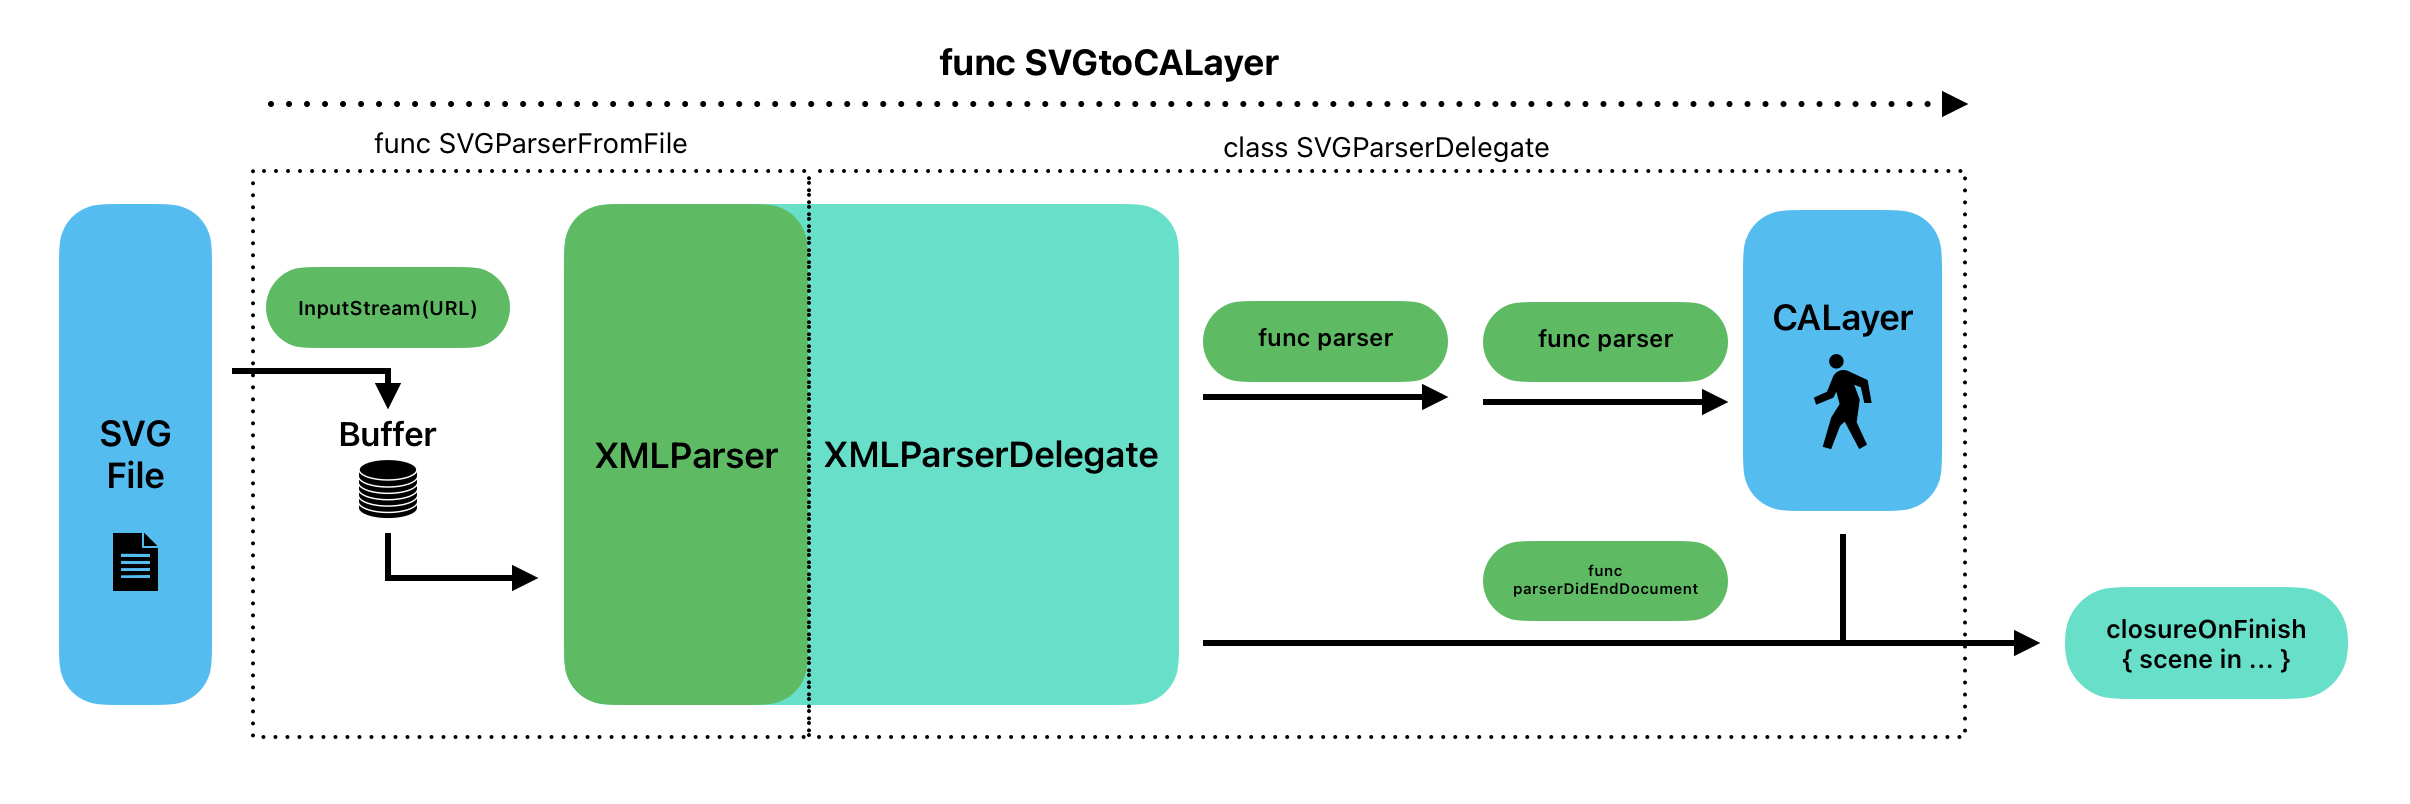
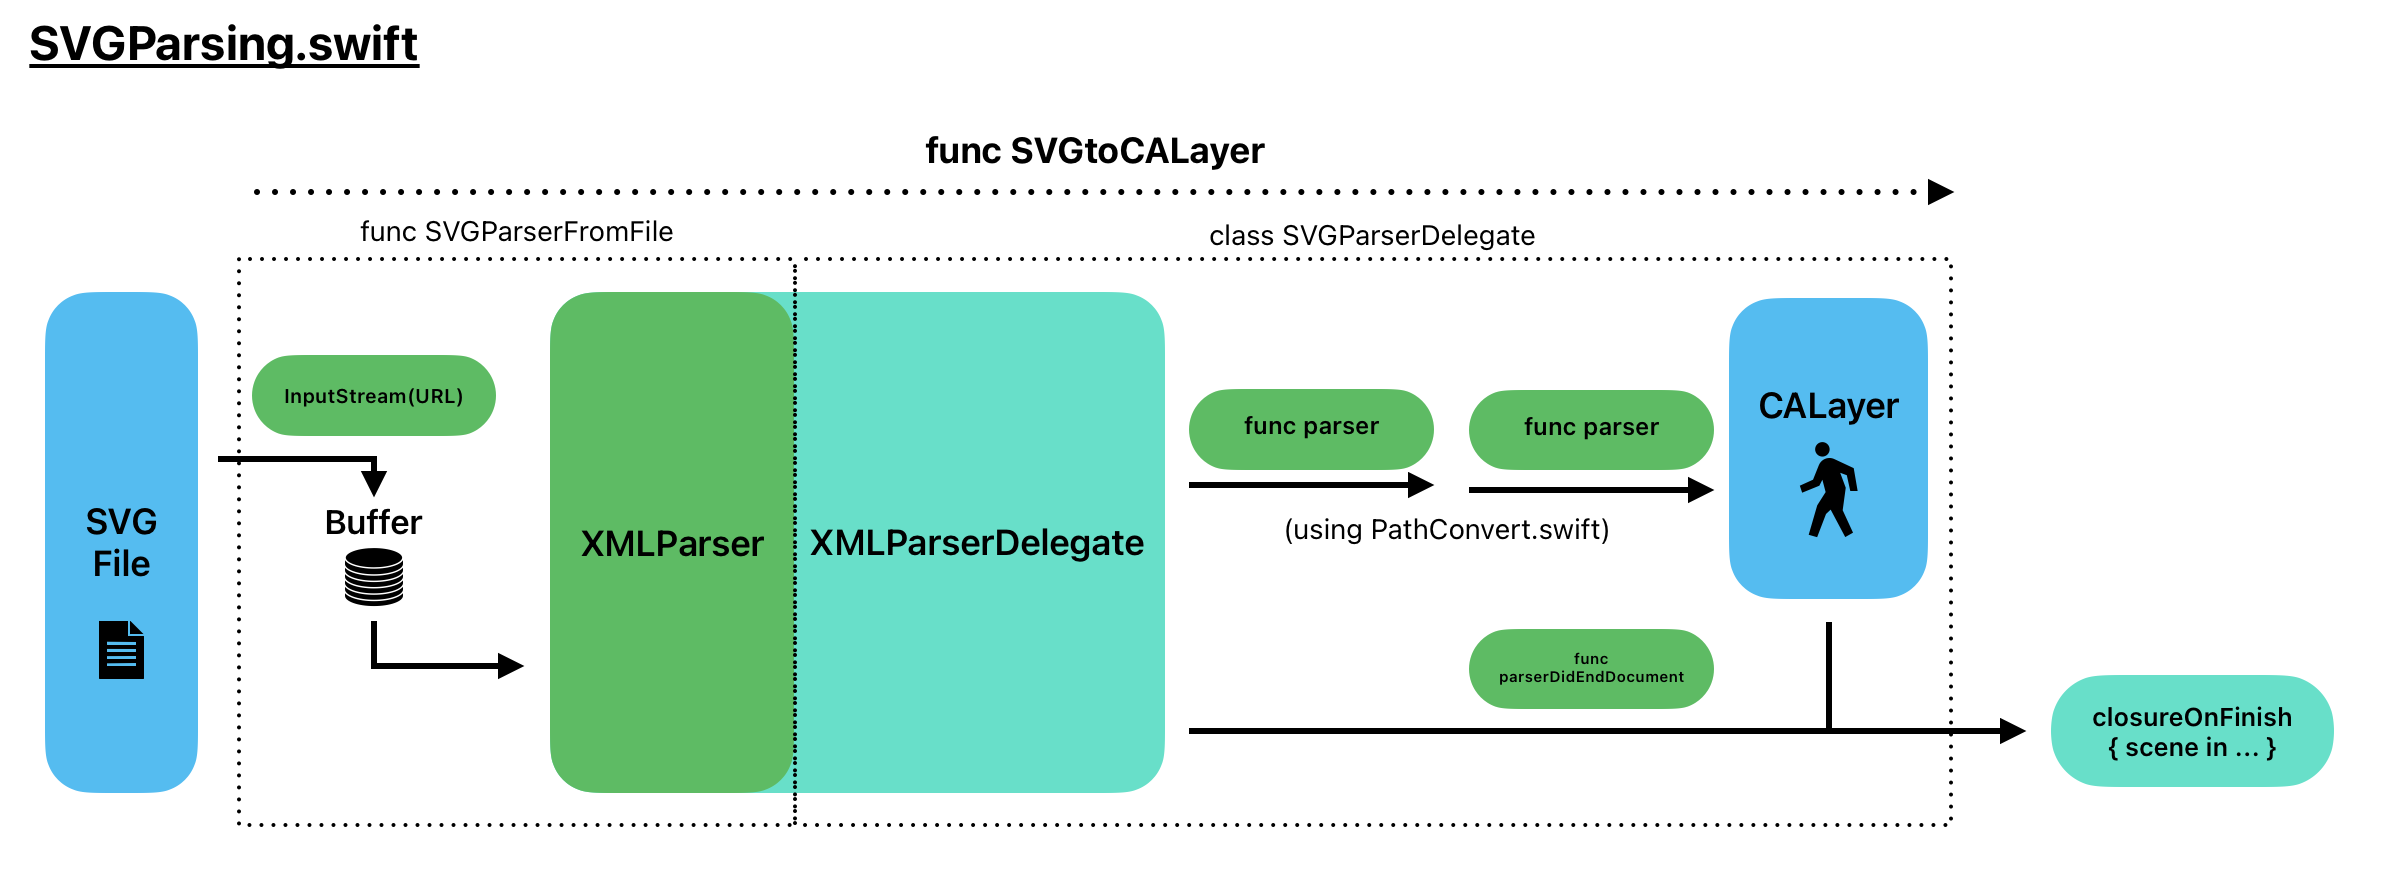
doc upd

diff --git a/Documentation.docc/Documentation.md b/Documentation.docc/Documentation.md
@@ -38,6 +38,6 @@ with the svgURL being Foundation's URL struct of a file with extension '.svg'. T
 
 Parsing is done using an implementation of Foundation's XMLParser with InputStream. This is written in SVGParsing.swift and the methods of drawing the CGPaths are in PathConverter.swift. By default, the main CALayer is built with a buffered series of instructions:
 
-<img src="Resources/SVGParsing.swift.png" width="903" height="301">
+<img src="Resources/SVGParsing.swift.png" width="900" height="330">
 
 
